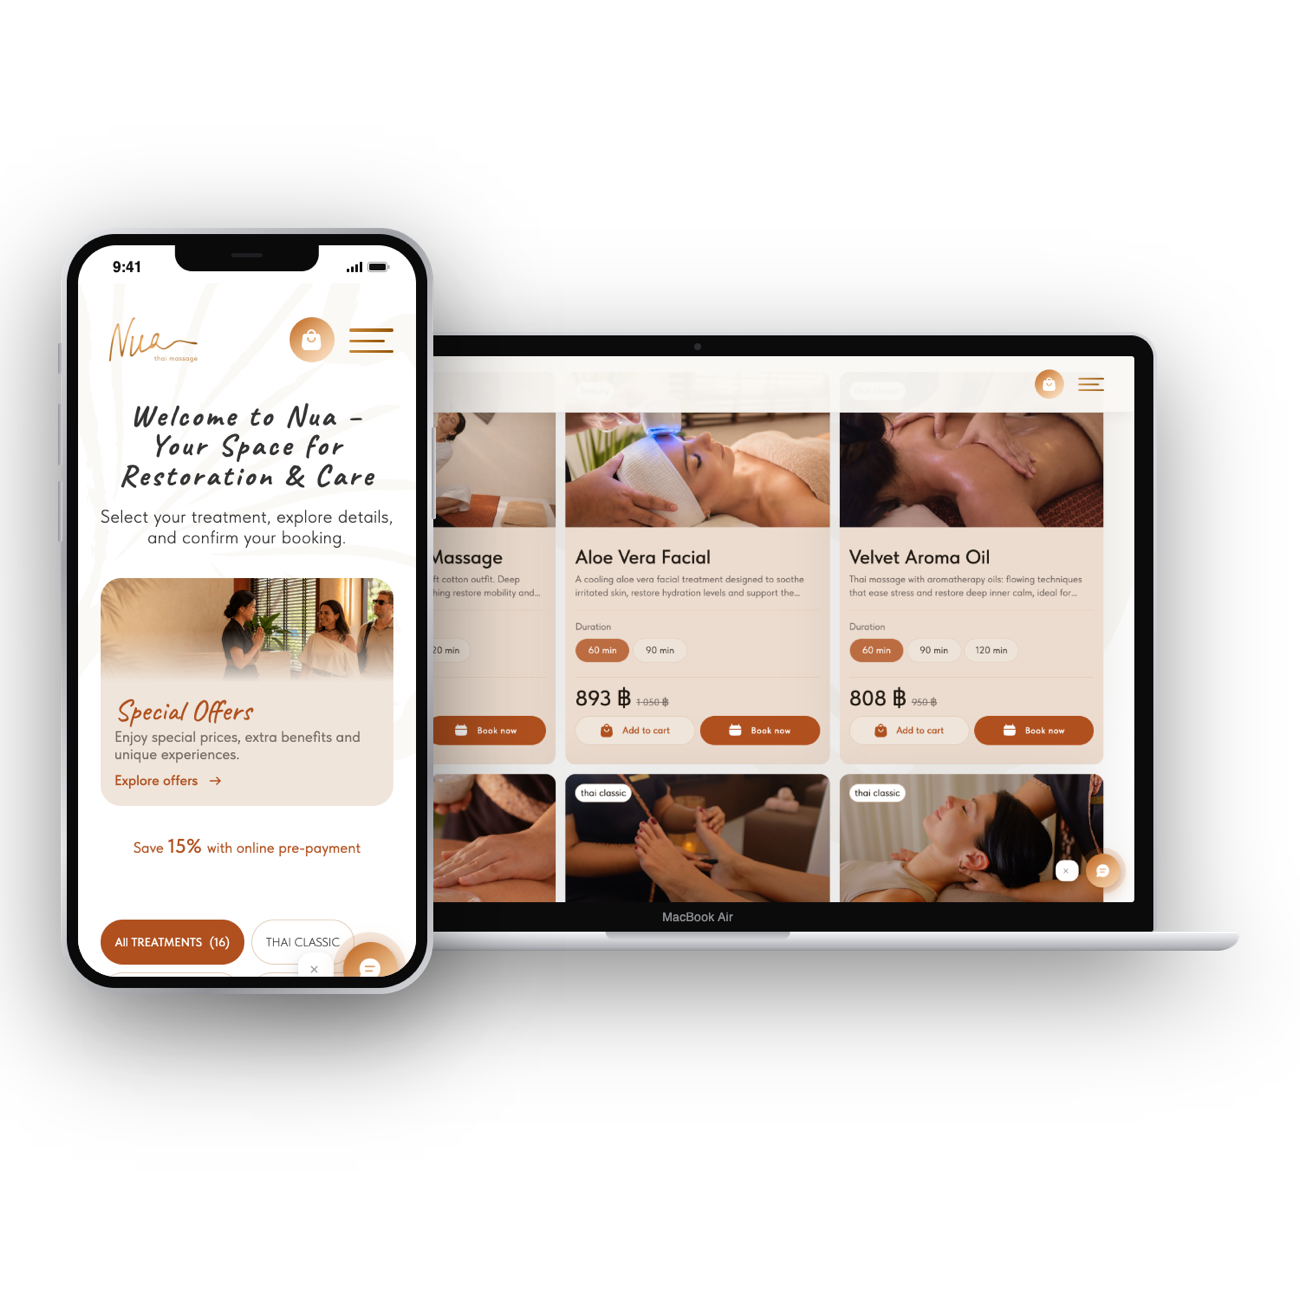
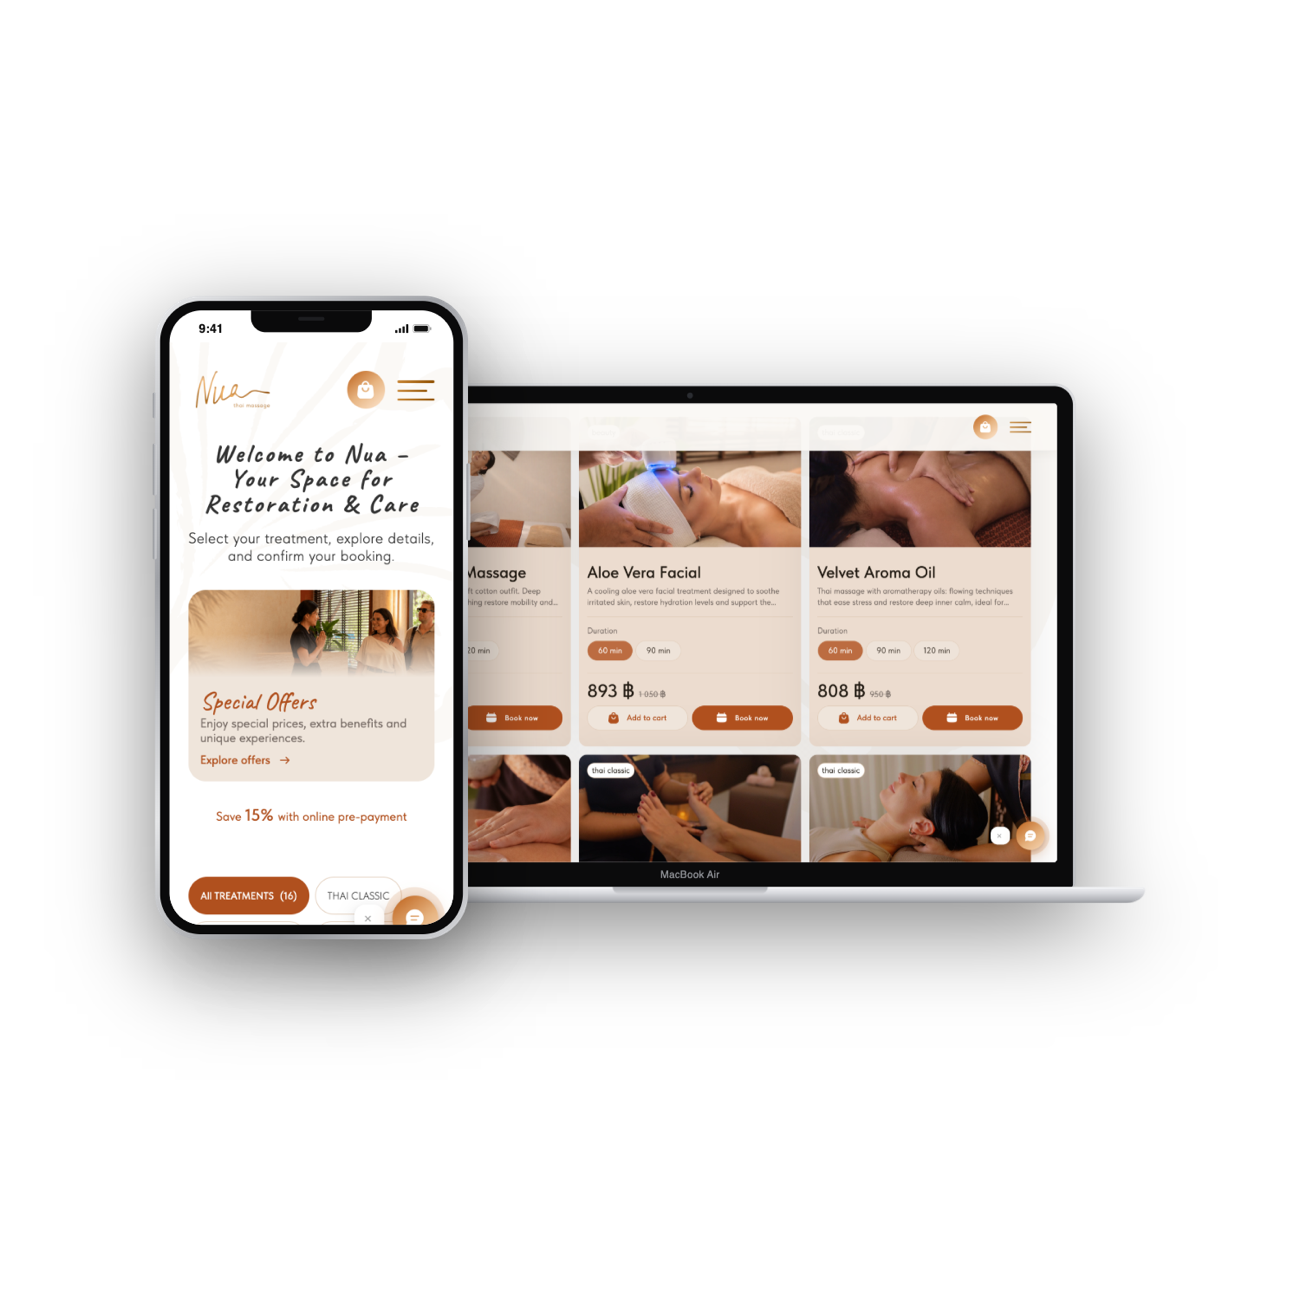
Обложка Nua: больше отступов от краёв

diff --git a/index.html b/index.html
@@ -89,7 +89,7 @@
         <h2 class="section__title">Проекты</h2>
         <div class="projects">
         <a class="project-card" href="projects/nua.html">
-          <div class="project-card__img"><img src="img/projects/nua.png?v=5" alt="Сайт для спа-салона Nua" loading="lazy"></div>
+          <div class="project-card__img"><img src="img/projects/nua.png?v=6" alt="Сайт для спа-салона Nua" loading="lazy"></div>
           <h3 class="project-card__title">Сайт для&nbsp;спа-салона Nua<span class="project-card__badge">новый</span></h3>
           <p class="project-card__text">Структура, дизайн и&nbsp;вёрстка на&nbsp;Webflow для&nbsp;салона тайского массажа с&nbsp;двумя филиалами: сложная корзина, оплата через Stripe, уведомления в&nbsp;WhatsApp</p>
         </a>
